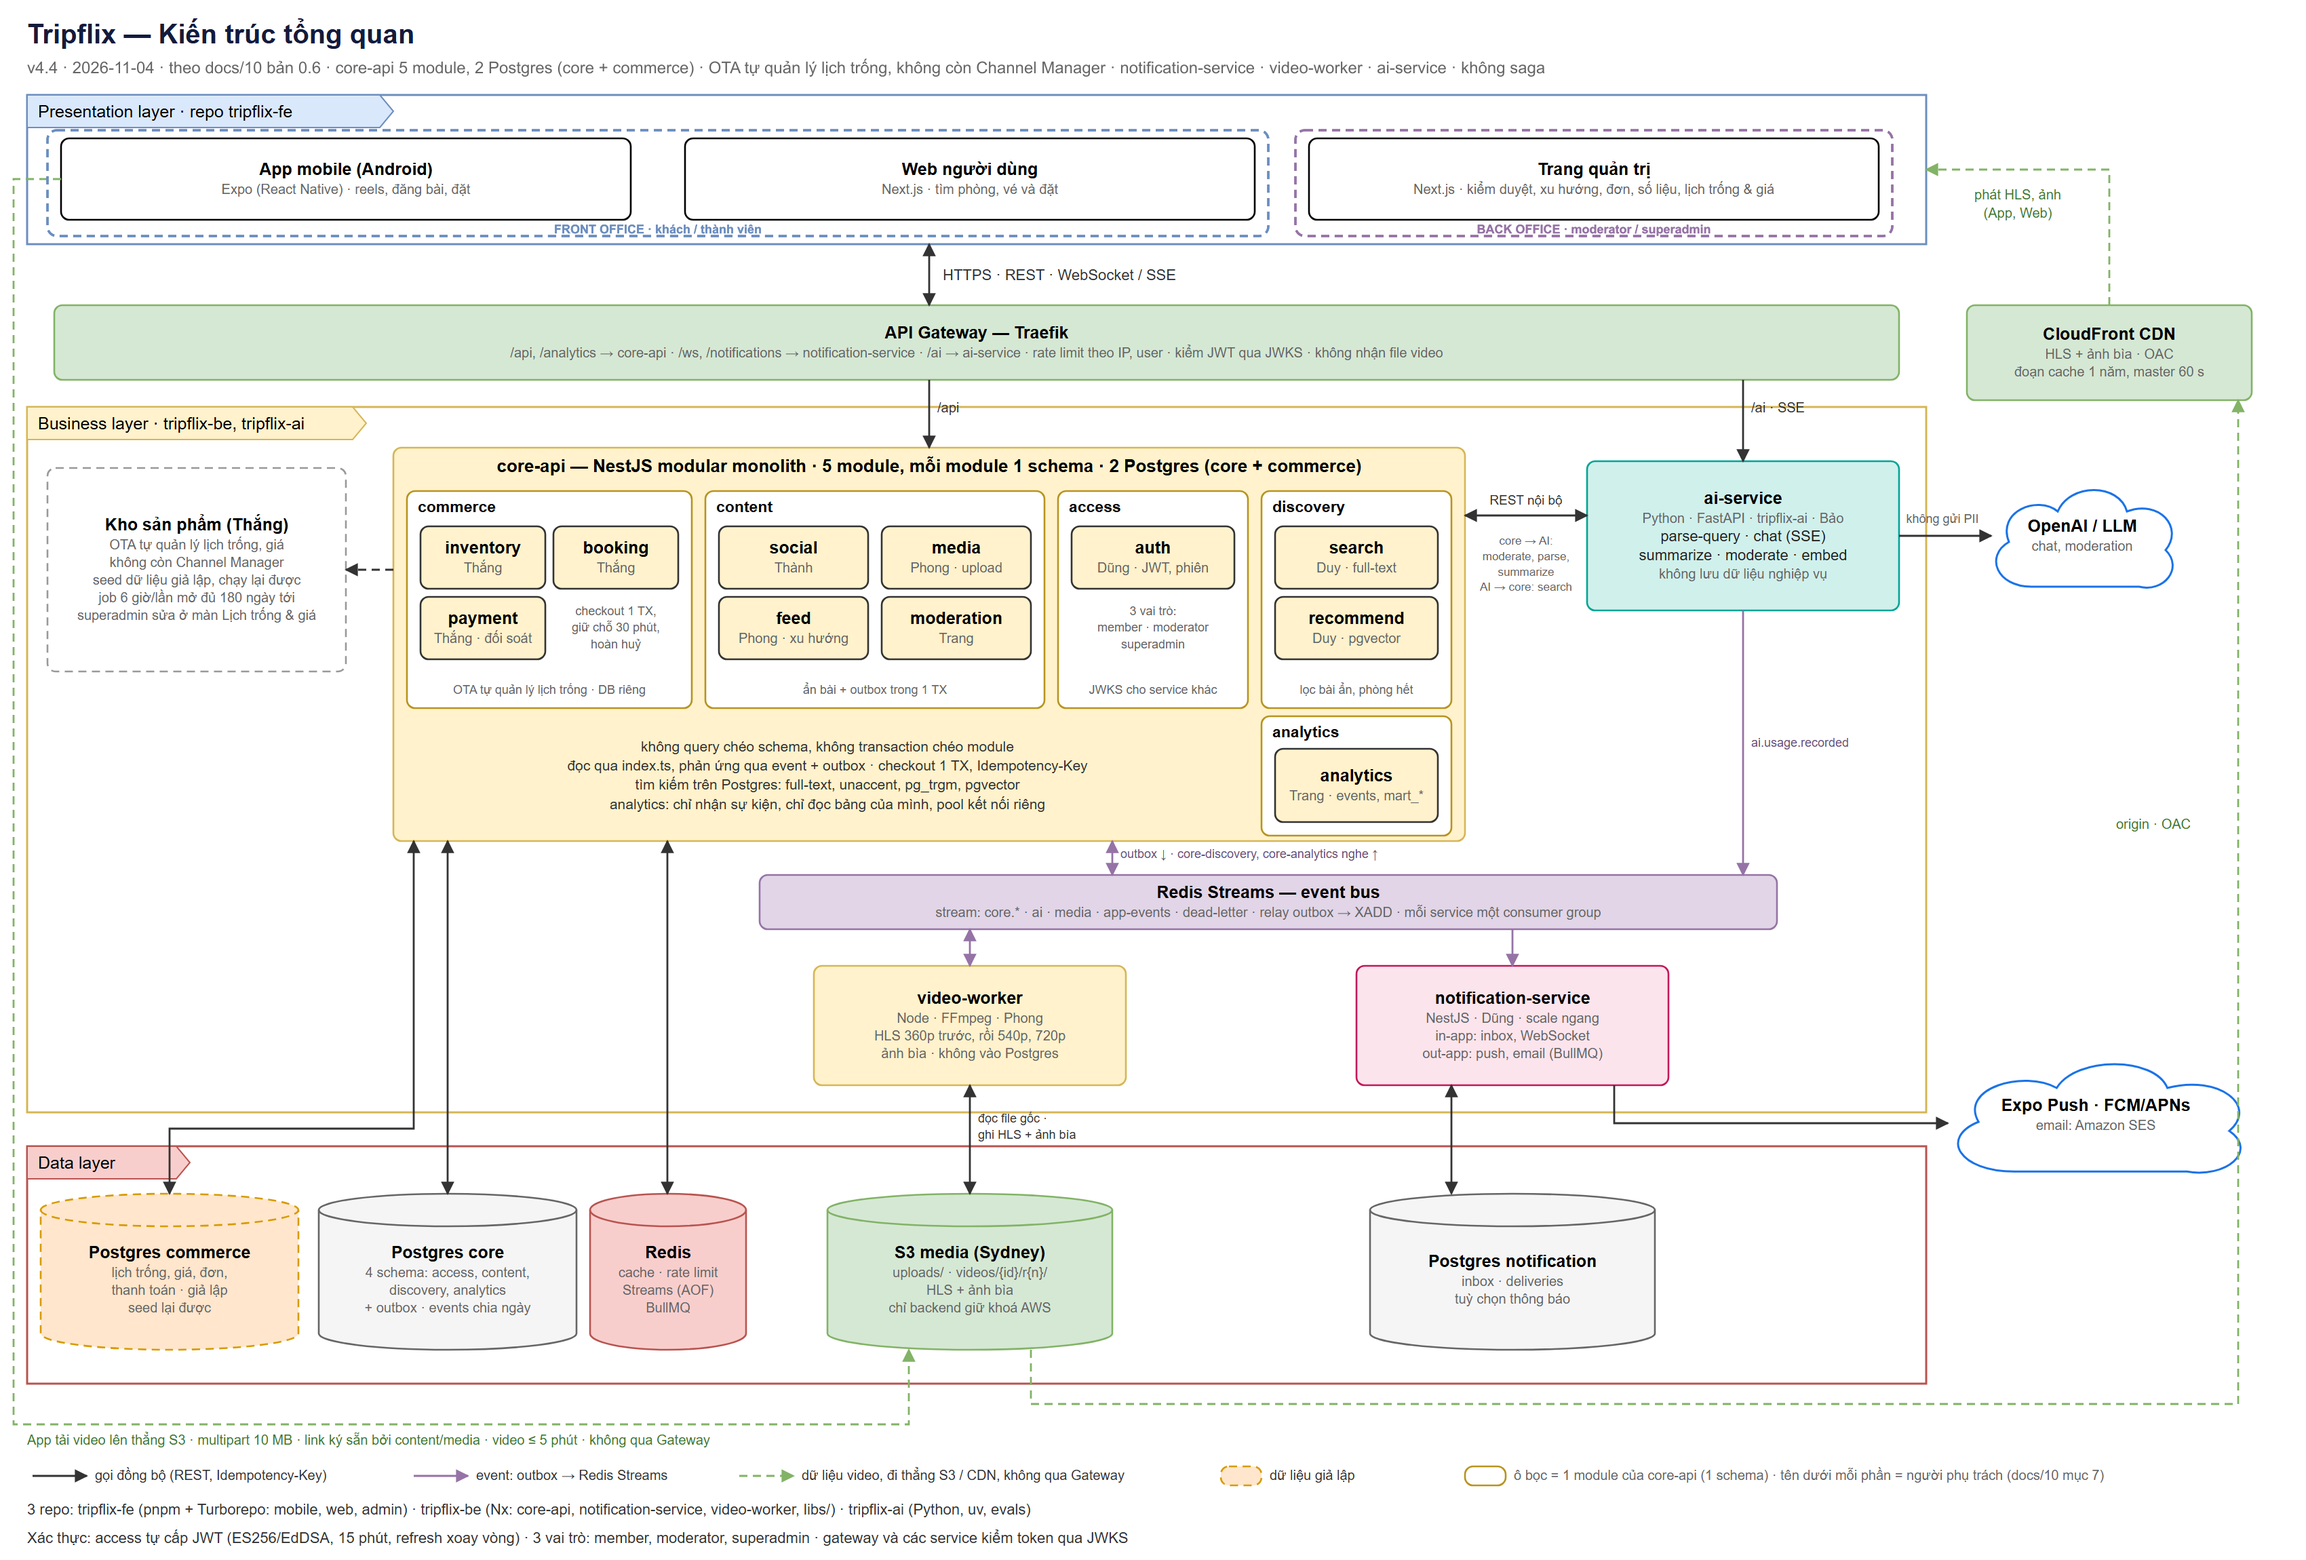
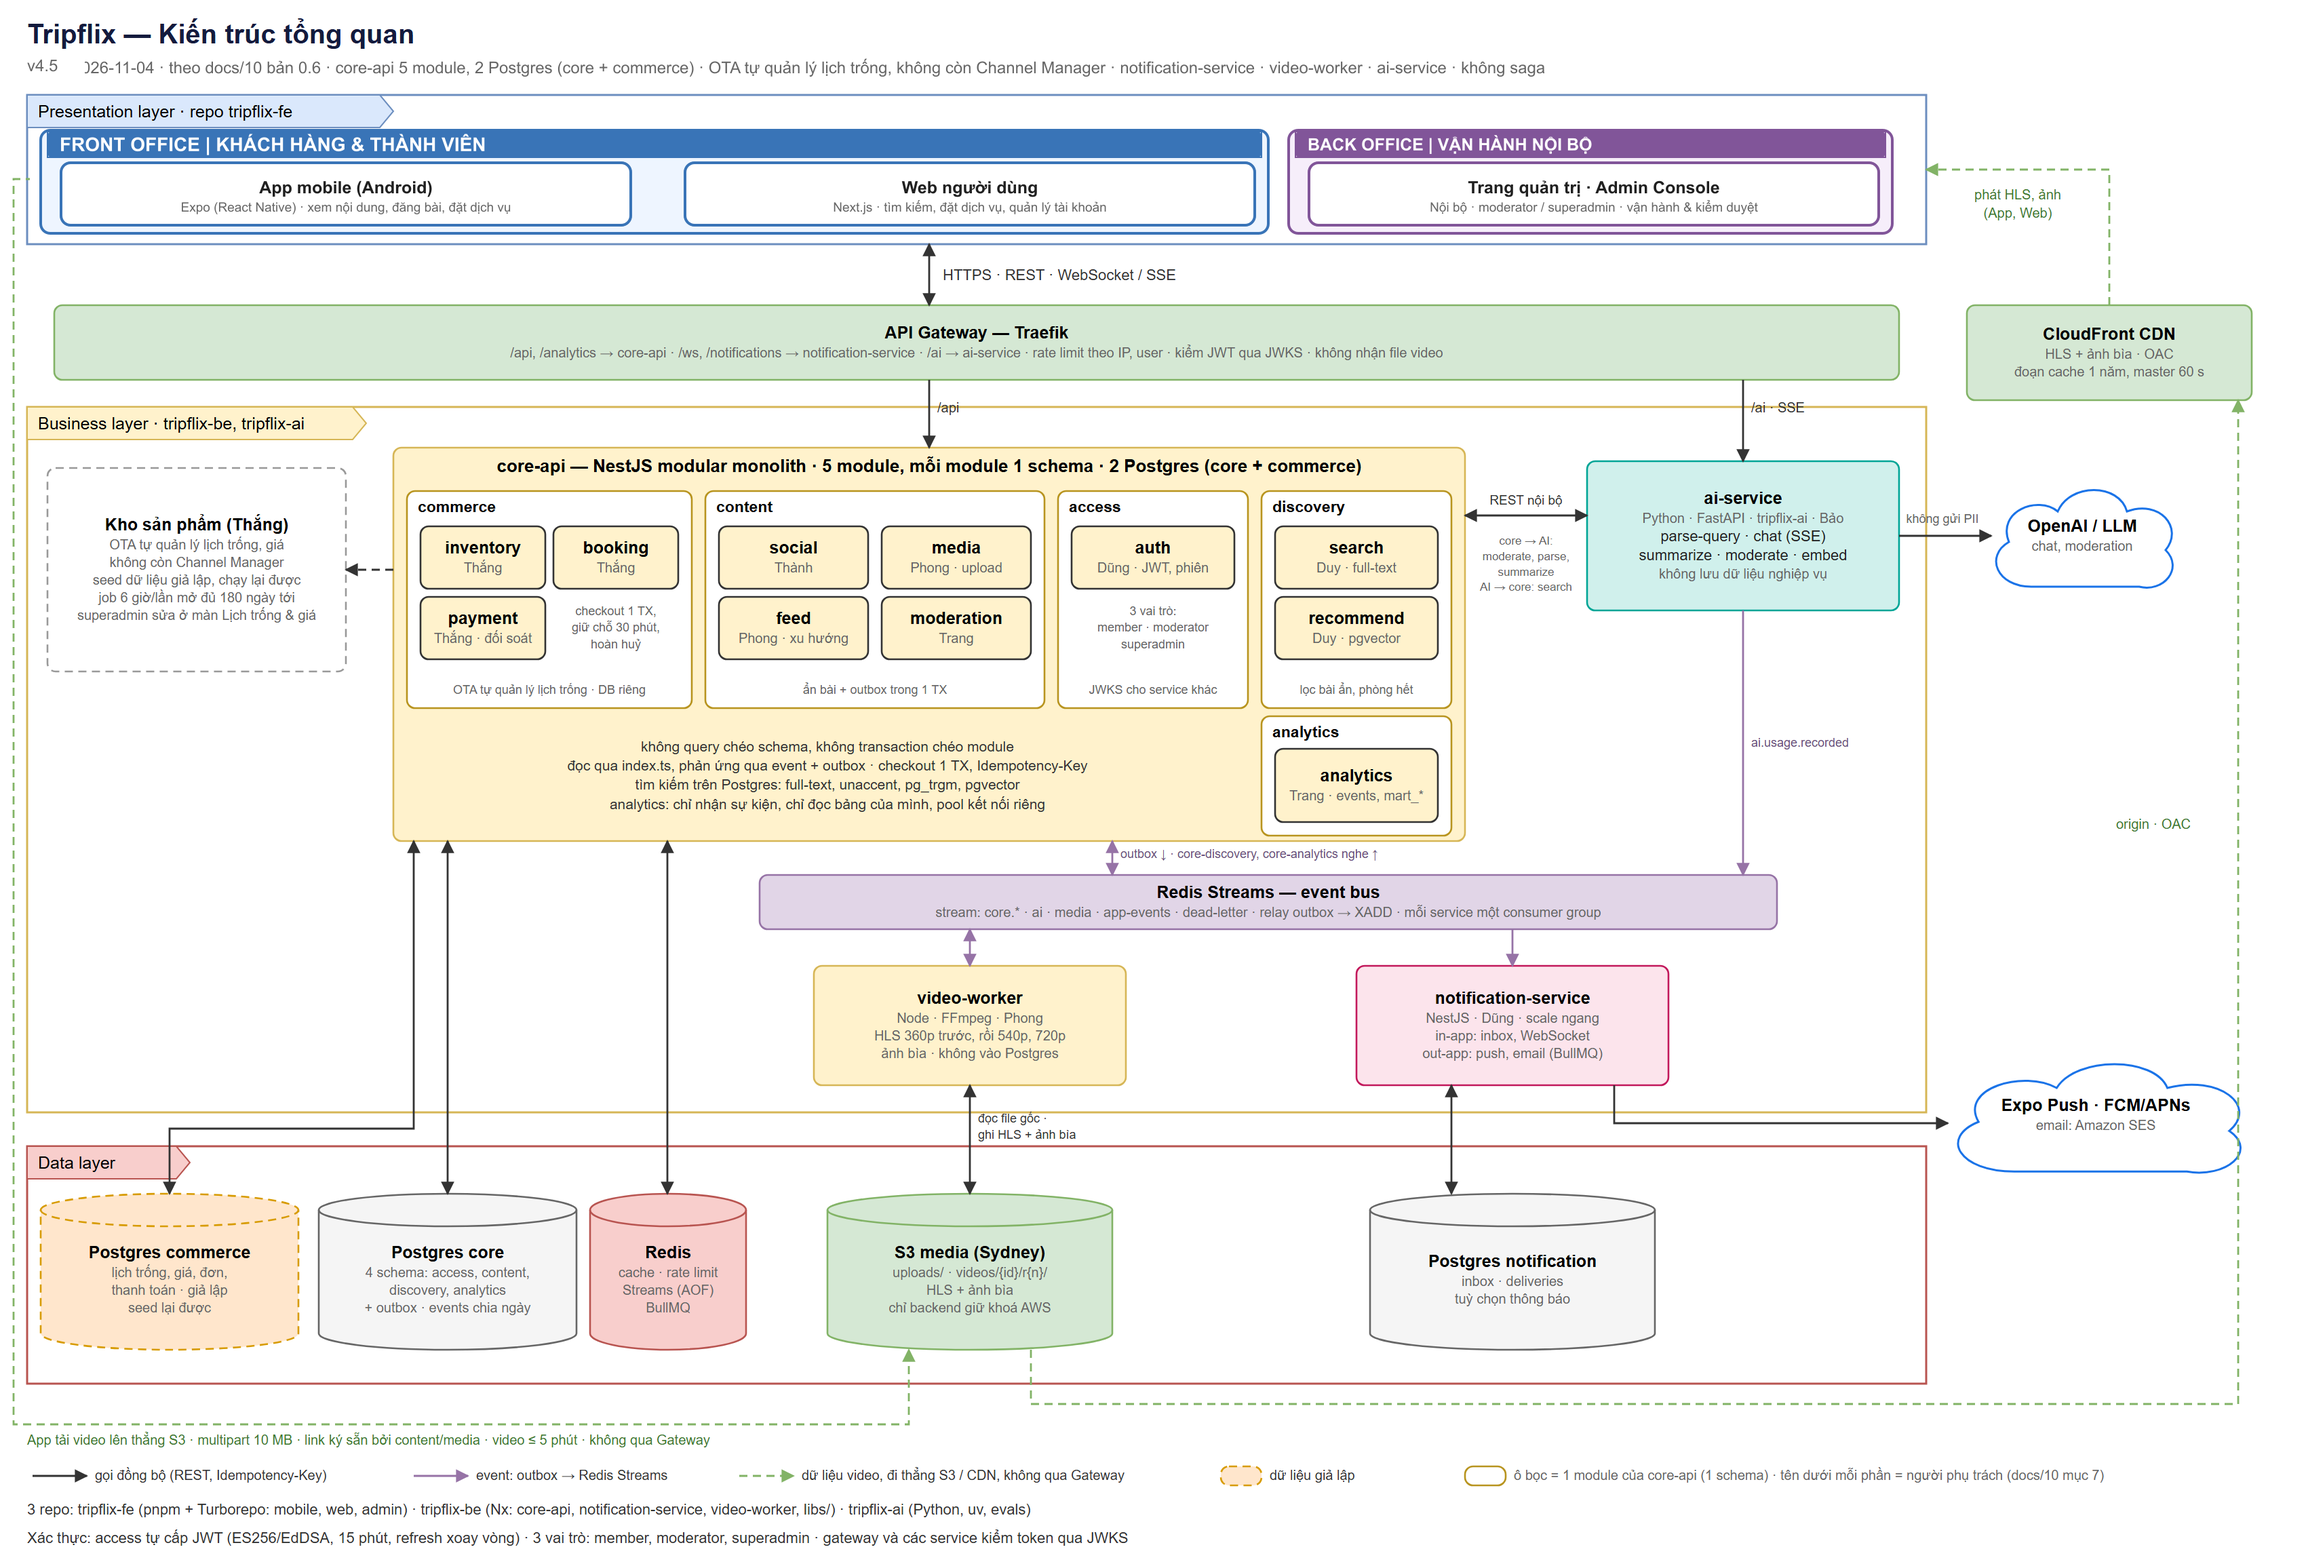
docs(repo): làm rõ Front Office và Back Office (TF57)

Changed region(s): [[0.0, 0.0617, 0.8418, 0.1543]]

diff --git a/ARCHITECTURE.md b/ARCHITECTURE.md
@@ -4,11 +4,11 @@ AI agents: read this file and [RULES.md](RULES.md) before changing code.
 
 ## Canonical system architecture
 
-![Tripflix system architecture v4.4](docs/architecture/06-kien-truc-tong-quan.png)
+![Tripflix system architecture v4.5](docs/architecture/06-kien-truc-tong-quan.png)
 
-The diagram above is the canonical system view (v4.4, 2026-11-04). The presentation layer separates Front Office (`apps/mobile`, `apps/web`, for guests and members) from Back Office (`apps/admin`, for moderators and superadmins). These are distinct product surfaces that use the same Traefik gateway and `core-api`; admin permissions are enforced by backend role guards. Video uploads go directly to S3, then playback uses CloudFront. Do not send video through the API Gateway.
+The diagram above is the canonical system view (v4.5, 2026-11-04). The presentation layer separates Front Office (`apps/mobile`, `apps/web`) is the guest/member area for discovery, posting, and booking. Back Office (`apps/admin`) is the internal Admin Console for `moderator` and `superadmin` operations and moderation. Both surfaces use the same Traefik API Gateway and `core-api`; admin permissions are enforced by backend role guards. Video uploads go directly to S3, then playback uses CloudFront. Do not send video through the API Gateway.
 
-The [editable diagram](docs/architecture/06-kien-truc-tong-quan.drawio) is the source for the preview. Supporting decisions and repo structure are in [architecture doc 10](docs/architecture/10-de-xuat-kien-truc-va-repo.md) and [architecture doc 11](docs/architecture/11-de-xuat-cau-truc-repo.md). If a supporting document conflicts with the v4.4 diagram, flag the conflict and follow the diagram until the architecture is reconciled.
+The [editable diagram](docs/architecture/06-kien-truc-tong-quan.drawio) is the source for the preview. Supporting decisions and repo structure are in [architecture doc 10](docs/architecture/10-de-xuat-kien-truc-va-repo.md) and [architecture doc 11](docs/architecture/11-de-xuat-cau-truc-repo.md). If a supporting document conflicts with the v4.5 diagram, flag the conflict and follow the diagram until the architecture is reconciled.
 
 ## Frontend boundaries
 

diff --git a/docs/architecture/README.md b/docs/architecture/README.md
@@ -2,7 +2,7 @@
 
 These copies keep the approved system design beside the code so agents and contributors can read it locally.
 
-The v4.4 diagrams separate Front Office (mobile and public web) from Back Office (admin console) while showing their shared API Gateway and `core-api`.
+The v4.5 diagrams separate Front Office (mobile and public web for guests/members) from Back Office (internal Admin Console for moderator/superadmin) while showing their shared API Gateway and `core-api`.
 
 - [10 — System architecture](10-de-xuat-kien-truc-va-repo.md)
 - [11 — Repository structure](11-de-xuat-cau-truc-repo.md), the more recent decision when it differs from 10
